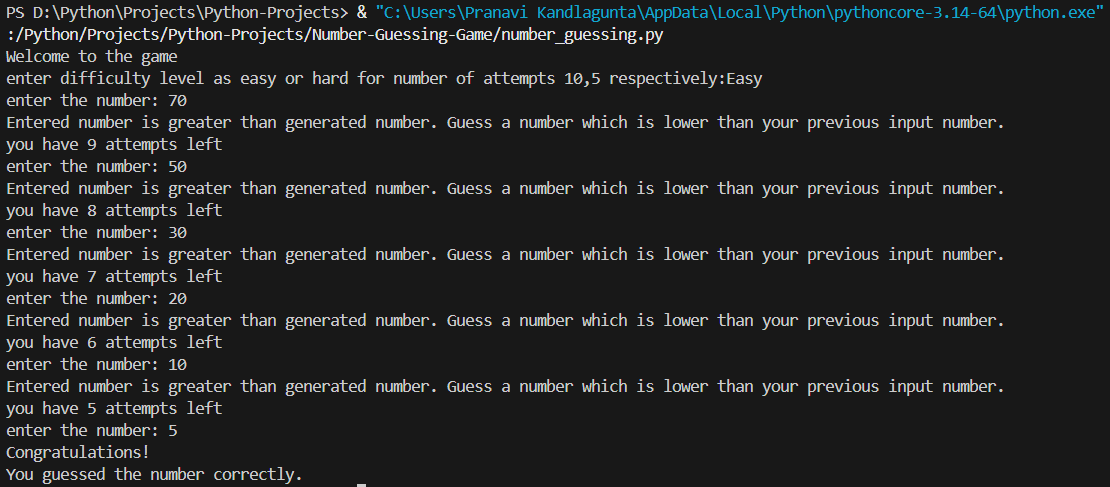
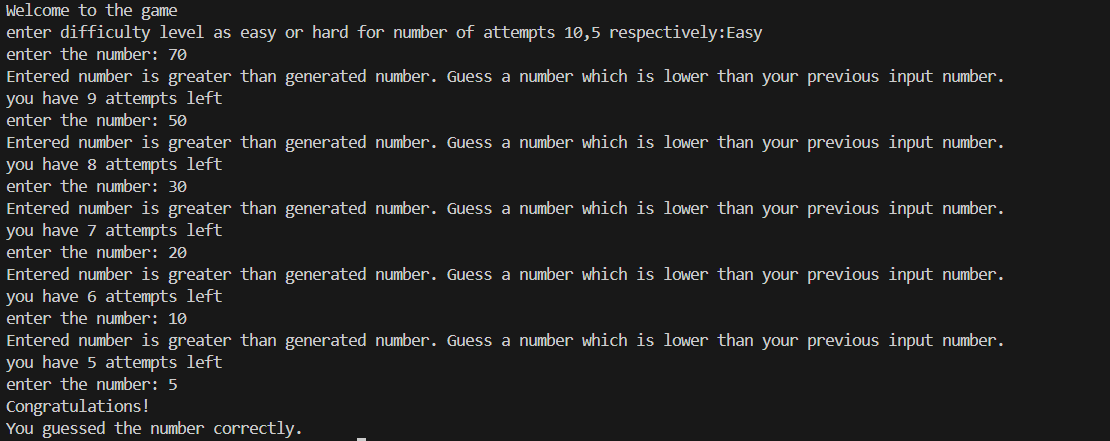
Add output screenshot to Number Guessing Game

Changed region(s): [[0.0, 0.0, 1.0, 1.0]]

diff --git a/Number-Guessing-Game/README.md b/Number-Guessing-Game/README.md
@@ -10,6 +10,6 @@ A Python-based number guessing game where the player tries to guess a randomly g
   - Hard (5 attempts)
 - Hint after every incorrect guess
 - Displays the correct number when all attempts are used
-## Output
+## Program Output
 
 ![Number Guessing Game Output](output.png)
